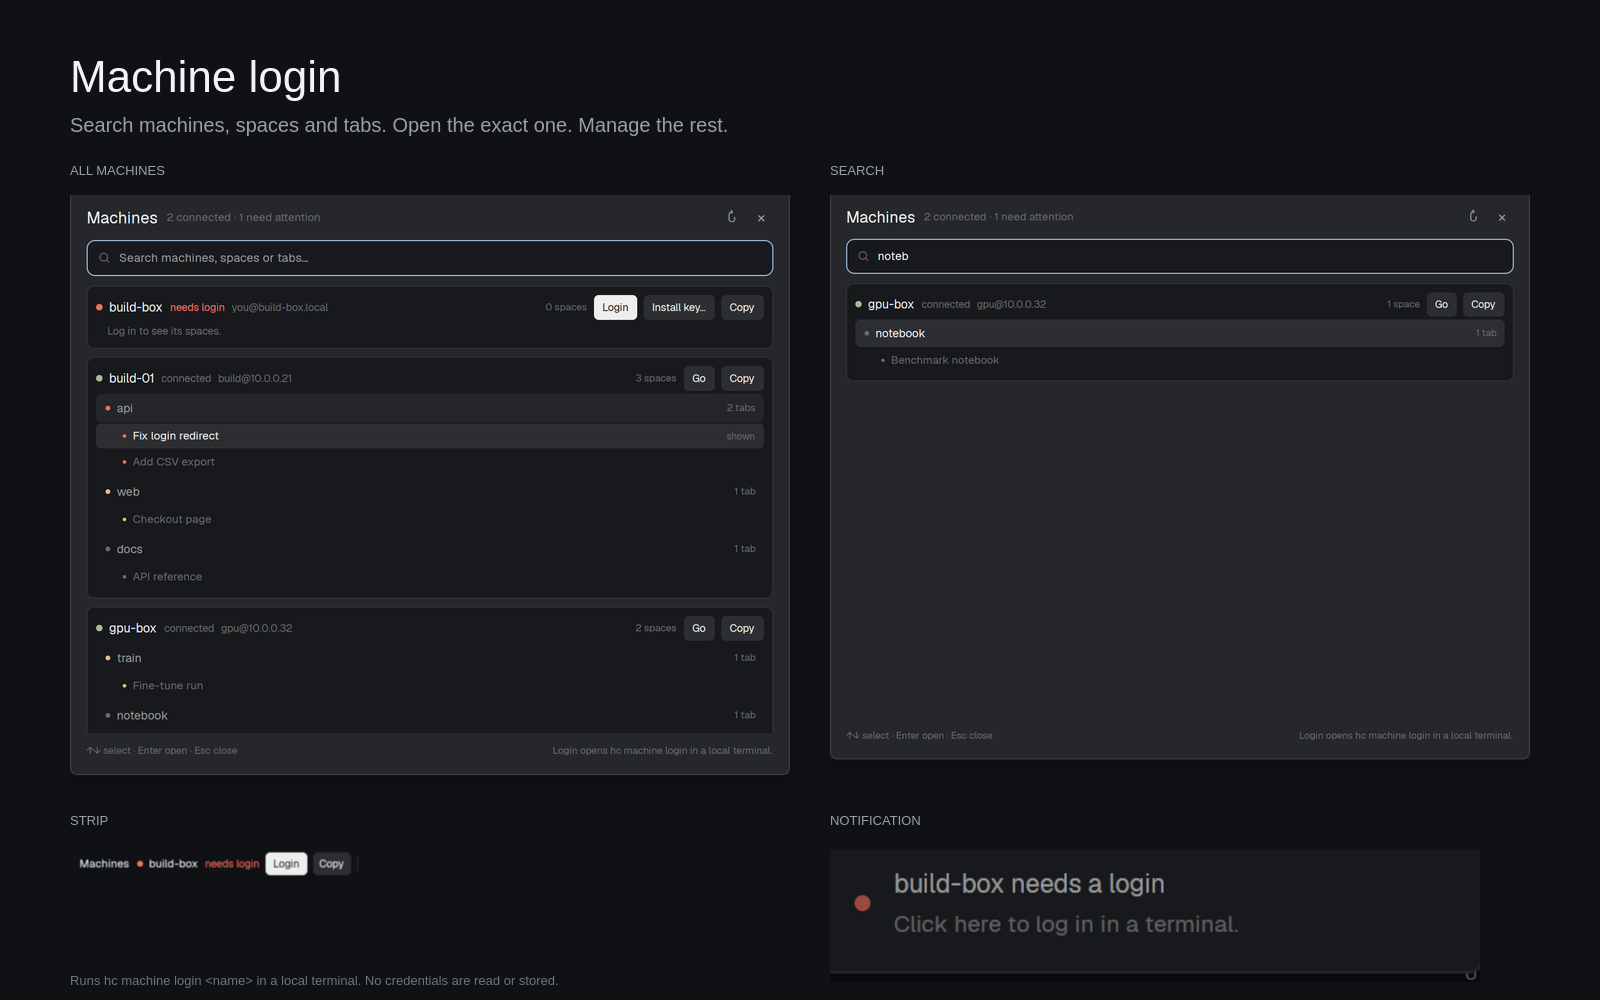
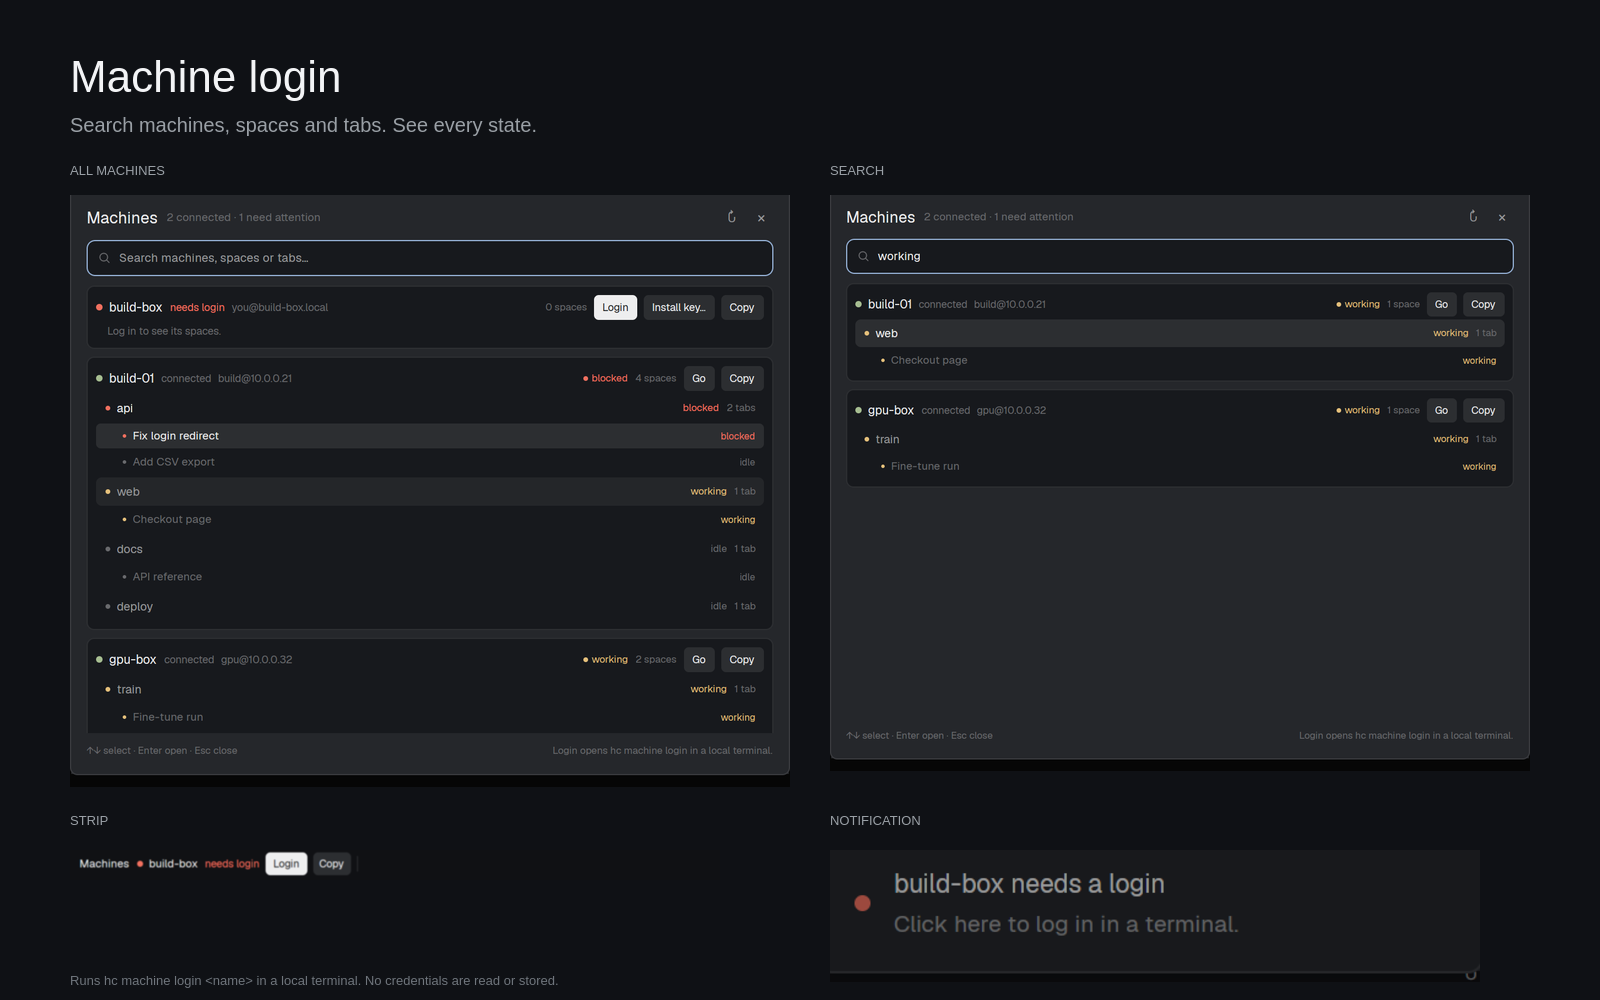
Fix row clicks and show live states in the machine tree

diff --git a/mods/machine-login/main.js b/mods/machine-login/main.js
@@ -6,7 +6,7 @@
 
 import { View, div, svg } from "gpui-kit";
 import { v_flex, h_flex, InputState, Input } from "gpui-base";
-import { hc, notify, run, theme, props, openOverlay, closeOverlay, spaces } from "herdr";
+import { hc, notify, run, theme, props, openOverlay, closeOverlay, spaces, agents } from "herdr";
 
 const shellArg = (value) => /^[a-z0-9_@%+=:,./-]+$/i.test(value) ? value : "'" + value.replace(/'/g, "'\\''") + "'";
 const commandFor = (machine) => `hc machine login ${shellArg(machine)}`;
@@ -122,19 +122,50 @@ export default class MachineLogin extends View {
     return spaces().filter((s) => (s.machine ?? null) === (machine ?? null));
   }
 
+  fuzzy(hay, q) {
+    let at = 0;
+    for (const ch of q) {
+      at = hay.indexOf(ch, at);
+      if (at === -1) return false;
+      at++;
+    }
+    return true;
+  }
+
+  matchesQuery(text, q) {
+    if (!q) return true;
+    const hay = String(text ?? "").toLowerCase();
+    const tokens = q.split(/\s+/).filter(Boolean);
+    return tokens.every((tok) => hay.includes(tok)) || tokens.every((tok) => this.fuzzy(hay, tok));
+  }
+
+  tabsFor(s, tabs) {
+    return tabs.length === 1 && (tabs[0].name ?? "") === s.name ? [] : tabs;
+  }
+
+  statusColor(t, status) {
+    return status ? (t[status] ?? t.dim) : t.dim;
+  }
+
   buildView() {
     const q = this.filter.trim().toLowerCase();
+    const allAgents = agents();
     const ordered = [
       ...this.machines.filter((m) => m.state !== "connected"),
       ...this.machines.filter((m) => m.state === "connected"),
     ];
     const out = [];
     for (const m of ordered) {
-      const machineHit = !q || `${m.name} ${m.target ?? ""} ${m.state ?? ""}`.toLowerCase().includes(q);
+      const machineText = `${m.name} ${m.target ?? ""} ${m.state ?? ""}`;
+      const machineHit = this.matchesQuery(machineText, q);
       const spaces = [];
       for (const s of this.spacesFor(m.name)) {
-        const spaceHit = !q || machineHit || s.name.toLowerCase().includes(q);
-        const tabs = (s.tabs ?? []).filter((tab) => !q || machineHit || spaceHit || (tab.name ?? "").toLowerCase().includes(q));
+        const spaceText = `${machineText} ${s.name} ${s.status ?? ""}`;
+        const spaceHit = this.matchesQuery(spaceText, q);
+        const tabs = (s.tabs ?? []).filter((tab) => {
+          const agentText = allAgents.filter((a) => a.tab === tab.id).map((a) => `${a.app ?? ""} ${a.title ?? ""}`).join(" ");
+          return !q || machineHit || spaceHit || this.matchesQuery(`${spaceText} ${tab.name ?? ""} ${tab.status ?? ""} ${agentText}`, q);
+        });
         if (!spaceHit && !tabs.length) continue;
         spaces.push({ s, tabs });
       }
@@ -149,7 +180,7 @@ export default class MachineLogin extends View {
     for (const group of this.buildView()) {
       for (const { s, tabs } of group.spaces) {
         out.push({ kind: "space", m: group.m, s });
-        for (const tab of tabs) out.push({ kind: "tab", m: group.m, s, tab });
+        for (const tab of this.tabsFor(s, tabs)) out.push({ kind: "tab", m: group.m, s, tab });
       }
     }
     return out;
@@ -161,9 +192,11 @@ export default class MachineLogin extends View {
 
   openItem(row) {
     if (!row) return;
-    if (row.kind === "space") run("space.select", { id: row.s.id });
-    else if (row.kind === "tab") run("tab.select", { id: row.tab.id });
+    const space = row.kind === "space" ? row.s.id : null;
+    const tab = row.kind === "tab" ? row.tab.id : null;
     this.close();
+    if (space) run("space.select", { id: space });
+    else if (tab) run("tab.select", { id: tab });
   }
 
   openSelected() {
@@ -234,18 +267,25 @@ export default class MachineLogin extends View {
           .child("↻")));
   }
 
-  machineHeader(m, t, spaceCount) {
+  machineHeader(m, t, spaces) {
     const state = String(m.state ?? "unknown").replace(/_/g, " ");
     const login = m.state === "needs_login";
     const reason = m.why ? ` (${m.why})` : "";
     const command = commandFor(m.name);
     const first = this.spacesFor(m.name)[0];
+    const spaceCount = spaces.length;
+    const statuses = spaces.map(({ s }) => s.status).filter(Boolean);
+    const top = ["blocked", "working", "done", "idle"].find((s) => statuses.includes(s));
+    const topCount = top ? statuses.filter((s) => s === top).length : 0;
     return h_flex().gap(7).items_center()
       .child(div().size(7).rounded(4).flex_none().bg(login ? t.blocked : m.state === "connected" ? t.ansi2 : t.dim))
       .child(div().text_size(13).font_medium().text_color(t.foreground).child(m.name))
       .child(div().text_size(11).text_color(login ? t.blocked : t.dim).child(state))
       .child(div().flex_1().min_w(0).truncate().text_size(11).text_color(t.dim).tooltip(reason || m.target || "")
         .child(m.target ? `${m.target}${reason}` : "no target"))
+      .when(Boolean(top), (el) => el.child(h_flex().flex_none().gap(4).items_center()
+        .child(div().size(5).rounded(3).bg(t[top] ?? t.dim))
+        .child(div().text_size(10.5).text_color(t[top] ?? t.dim).child(`${top}${topCount > 1 ? ` ${topCount}` : ""}`))))
       .child(div().flex_none().text_size(10.5).text_color(t.dim).child(`${spaceCount} space${spaceCount === 1 ? "" : "s"}`))
       .when(Boolean(first), (el) => el.child(this.button(`machine-login-go-${m.name}`, "Go", false,
         `Show the first space on ${m.name}.`,
@@ -268,37 +308,38 @@ export default class MachineLogin extends View {
     return h_flex().id(`ml-space-${s.id}`).h(30).pl(10).pr(8).gap(7).items_center().rounded(6)
       .when(selected, (el) => el.bg(t.selected))
       .when(!selected, (el) => el.hover((e) => e.bg(t.hover)))
-      .cursor_pointer().on_click((e, cx) => { e.stop_propagation(); this.openItem(row); })
+      .cursor_pointer().on_click((_e, cx) => { cx.stop_propagation(); this.openItem(row); })
       .child(div().size(5).rounded(3).flex_none().bg(status))
-      .child(div().min_w(0).truncate().text_size(12.5).text_color(selected ? t.foreground : t.muted).child(s.name))
+      .child(div().min_w(0).truncate().text_size(12.5).text_color(selected || s.active ? t.foreground : t.muted).child(s.name))
       .child(div().flex_1())
+      .child(div().flex_none().text_size(10.5).text_color(this.statusColor(t, s.status)).child(s.status ?? "—"))
       .child(div().flex_none().text_size(10.5).text_color(t.dim).child(`${count} tab${count === 1 ? "" : "s"}`));
   }
 
   tabRow(row, t, selected) {
     const tab = row.tab;
-    const status = row.s.status ? (t[row.s.status] ?? t.dim) : t.dim;
+    const status = this.statusColor(t, tab.status);
     return h_flex().id(`ml-tab-${tab.id}`).h(26).pl(28).pr(8).gap(7).items_center().rounded(5)
       .when(selected, (el) => el.bg(t.selected))
       .when(!selected, (el) => el.hover((e) => e.bg(t.hover)))
-      .cursor_pointer().on_click((e, cx) => { e.stop_propagation(); this.openItem(row); })
+      .cursor_pointer().on_click((_e, cx) => { cx.stop_propagation(); this.openItem(row); })
       .child(div().size(4).rounded(2).flex_none().bg(status))
-      .child(div().min_w(0).truncate().text_size(12).text_color(selected ? t.foreground : t.dim).child(tab.name ?? "tab"))
+      .child(div().min_w(0).truncate().text_size(12).text_color(selected || tab.active ? t.foreground : t.dim).child(tab.name ?? "tab"))
       .child(div().flex_1())
-      .when(tab.active, (el) => el.child(div().text_size(10).text_color(t.dim).child("shown")));
+      .when(Boolean(tab.status), (el) => el.child(div().text_size(10).text_color(this.statusColor(t, tab.status)).child(tab.status)));
   }
 
   machineBlock(group, t, selKey) {
     const { m, spaces } = group;
     return v_flex().gap(3).p(9).rounded(8).bg(t.surface).border_1().border_color(t.border)
-      .child(this.machineHeader(m, t, spaces.length))
+      .child(this.machineHeader(m, t, spaces))
       .when(spaces.length === 0, (el) => el.child(div().pl(12).text_size(11).text_color(t.dim)
         .child(m.state === "connected" ? "No spaces on this screen." : "Log in to see its spaces.")))
       .children(spaces.map(({ s, tabs }) => {
         const spaceItem = { kind: "space", m, s };
         return v_flex().gap(1)
           .child(this.spaceRow(spaceItem, t, selKey === this.keyOf(spaceItem)))
-          .children(tabs.map((tab) => {
+          .children(this.tabsFor(s, tabs).map((tab) => {
             const tabItem = { kind: "tab", m, s, tab };
             return this.tabRow(tabItem, t, selKey === this.keyOf(tabItem));
           }));

diff --git a/RECIPE.md b/RECIPE.md
@@ -51,13 +51,18 @@ Clicking **Machines** (or pressing `Ctrl+Alt+M`) opens a 760×620 dialog on
   - Header row: a 7px state dot (`blocked` for `needs_login`, `ansi2` for
     connected, `dim` otherwise), name 13px medium in `foreground`, state 11px
     (`blocked` for `needs_login` else `dim`), the target in 11px `dim` (with
-    `why` when `hc` gives one), the space count in 10.5px `dim`, then **Go**
-    (first space), **Login** / **Retry**, **Install key…** and **Copy**.
+    `why` when `hc` gives one), the top agent status and count in the status's
+    color, the space count in 10.5px `dim`, then **Go** (first space),
+    **Login** / **Retry**, **Install key…** and **Copy**. The status summary
+    uses only the spaces currently shown after filtering.
   - Space rows: 30px high, 10px left padding, a 5px status dot, the name 12.5px
-    (`muted`, or `foreground` when active), and `${tabs} tab(s)` in 10.5px
-    `dim`.
+    (`muted`, or `foreground` when active), the status word on the right in
+    `working`/`blocked`/`done`/`idle` color (or `—`), and `${tabs} tab(s)` in
+    10.5px `dim`.
   - Tab rows: 26px high, 28px left padding, a 4px status dot, the tab name
-    12px (`dim`, or `foreground` when selected), and `shown` for the active tab.
+    12px (`dim`, or `foreground` when selected or active), and the tab's own
+    status word on the right. A space whose only tab has the same name as the
+    space hides that tab row; the space row opens it.
   - The highlighted row uses `selected`; the hovered row uses `hover`. Clicking
     a space row calls `space.select`; clicking a tab row calls `tab.select`.
     With no spaces: `No spaces on this screen.` or `Log in to see its spaces.`
@@ -80,10 +85,14 @@ running mod reads the real `hc machine ls`.
   `keys.json` binds `ctrl-alt-m` to `mod.open:machine-login`, so the same dialog
   opens from a key. `mod.json` carries the same 760×620 dialog as its default
   overlay.
-- `buildView()` filters the tree. It lowercases `filter`; a machine matches by
-  name, target or state; a space matches by name; a tab matches by name. A
-  machine match keeps all its spaces and tabs; a space match keeps its tabs; a
-  tab match keeps the parent machine and space. Attention machines come first.
+- `buildView()` filters the tree. It lowercases `filter`; `matchesQuery` first
+  tries every whitespace token as a substring, then as an in-order subsequence.
+  A machine matches by name, target or state; a space adds its name and status;
+  a tab adds its name, status and each agent's `app`/`title` (from `agents()`).
+  A machine match keeps all its spaces and tabs; a space match keeps its tabs;
+  a tab match keeps the parent machine and space. Attention machines come
+  first. `tabsFor(s, tabs)` drops the redundant single tab whose name equals its
+  space's name.
 - `pickable()` flattens the tree to space and tab rows for the keyboard.
   `renderList` starts at the active tab (or active space) and clamps `at`.
   `↑`/`↓` move `at` with wraparound; the root's `on_key_down` stops propagation
@@ -156,7 +165,7 @@ running mod reads the real `hc machine ls`.
 
 - One mod, `mods/machine-login/`:
   - `mod.json`: `{ "place": "bottom", "size": 34, "title": "Machine login",
-    "version": "0.4.0", "overlay": { "kind": "dialog", "width": 760,
+    "version": "0.5.0", "overlay": { "kind": "dialog", "width": 760,
     "height": 620 } }`. The first time Herdr sees the folder it docks the strip
     into the shown layout; the overlay is what `mod.open` uses for the list.
   - `keys.json`: `{ "global": { "ctrl-alt-m": "mod.open:machine-login" } }`.
@@ -181,21 +190,29 @@ running mod reads the real `hc machine ls`.
       at most one notice per 10 minutes for a machine in `needs_login`.
     - `openList` calls `openOverlay` with the same 760×620 dialog.
     - `spacesFor(machine)` filters `spaces()` by `machine`.
+    - `fuzzy(hay, q)` is the in-order subsequence match; `matchesQuery(text, q)`
+      is token-substring or token-fuzzy; `tabsFor(s, tabs)` hides a redundant
+      single same-name tab; `statusColor(t, status)` maps a status to its theme
+      color.
     - `buildView()` returns the attention-first machine tree with filtered
       spaces and tabs; `pickable()` flattens it for the keyboard; `keyOf(row)`
       identifies a space or tab.
-    - `openItem(row)` runs `space.select` or `tab.select`, then `close`.
+    - `openItem(row)` closes first, then runs `space.select` or `tab.select`.
       `openSelected` uses the highlighted `at`; `close` tries the overlay id,
       falls back to `closeOverlay()`, and swallows errors.
     - `button(id, label, primary, tooltip, onClick)` is the shared 26px action
-      button; it stops propagation so a click does not also close/select.
+      button; it stops propagation with `cx.stop_propagation()` so a click does
+      not also close/select.
     - `row` draws the strip's dot, name, state, Login/Retry, Copy and divider.
     - `renderStrip` chooses checking / error / all-connected / attention, makes
       **Machines** open the list, and always draws the refresh button.
-    - `machineHeader` draws the machine dot/name/state/target/space count and
-      the Go / Login / Retry / Install key / Copy buttons.
-    - `spaceRow` and `tabRow` draw the selectable tree rows and their click
-      handlers. `machineBlock` composes a machine with its rows.
+    - `machineHeader` draws the machine dot/name/state/target, the top status
+      and count from the filtered spaces, the space count, and the Go / Login /
+      Retry / Install key / Copy buttons.
+    - `spaceRow` and `tabRow` draw the selectable tree rows, their status words
+      and their click handlers (which stop propagation through `cx`). A tab row
+      uses `tab.status`; a space row uses `s.status`.
+    - `machineBlock` composes a machine with its filtered space and tab rows.
     - `renderList` draws the header, the search field, the scrollable tree and
       the footer; it wires `↑`/`↓`/Esc on the root and starts at the active tab.
     - `render(cx)` returns `renderList` when `this.overlay` is set, otherwise
@@ -278,10 +295,16 @@ running mod reads the real `hc machine ls`.
   their space and tab rows; no **Retry** on connected cards.
 - Typing a space or tab name (for example `slack`) filters the tree to the
   matching spaces/tabs; **↑/↓** moves the highlight and **Enter** closes the
-  dialog and opens the highlighted space or tab. With no match the list says
-  `No machine, space or tab matches.`
+  dialog and opens the highlighted space or tab. Typing `working`, `blocked`,
+  `done` or `idle` filters by status. Multi-word and fuzzy queries match. With
+  no match the list says `No machine, space or tab matches.`
 - Clicking a space row selects that space; clicking a tab row selects that exact
   tab. Both close the dialog. Clicking **Go** selects the machine's first space.
+- Space and tab rows show their live status word on the right, with the status
+  color; the machine header shows its top status and count. Filtering to
+  `working` changes the machine header's summary to the visible working spaces.
+- A space with one tab whose name equals the space name shows no tab row; the
+  space row opens that tab.
 - Clicking **Login** creates a local space named `build-box login` with a
   `login` tab, and the terminal shows the `(user@host) Password:` prompt (or the
   real SSH error). Closing the space leaves the saved machine untouched.

diff --git a/README.md b/README.md
@@ -29,12 +29,14 @@ that can ask.
 - Click **Machines** (or press `Ctrl+Alt+M`) to open the machine tree: every
   saved machine, its target, state, **Login / Retry**, **Install key…**,
   **Copy**, **Go**, and its spaces and tabs. Attention comes first.
-- Search matches machine names, targets, states, space names and tab names.
-  Use **↑/↓** to move the highlight and **Enter** to open the selected space or
-  tab; clicking a space or tab opens it too. **Esc** closes the dialog.
-- Each tab row shows whether it is the shown tab; a space row shows its tab
-  count and the agent status dot. Clicking a space opens it; clicking a tab
-  opens that exact tab.
+- Search matches machine names, targets, states, space/tab names, agent statuses
+  and agent titles. Multi-word and fuzzy queries work. Use **↑/↓** to move the
+  highlight and **Enter** to open the selected space or tab; clicking a space
+  or tab opens it too. **Esc** closes the dialog.
+- Space and tab rows show their live agent status (`working`, `blocked`, `done`,
+  `idle`) on the right, next to the tab count. The machine header shows its
+  highest status and how many spaces have it. A single tab with the same name
+  as its space is not repeated; the space row already opens it.
 - **Install key…** is the permanent fix: it runs `ssh-copy-id` for your first
   `~/.ssh/id_ed25519.pub` or `~/.ssh/id_rsa.pub`, then logs in once. Future
   reconnects use the key and no longer prompt.
@@ -125,9 +127,9 @@ button is not useful there.
   different key, run `ssh-copy-id` once in your own terminal.
 - The dialog's **Go** button selects the first space on that machine. It is
   hidden if that machine has no space on the current screen. The tree lists
-  spaces and tabs under each connected machine; search matches machine names,
-  targets, states, space names and tab names. `↑/↓` and Enter work while the
-  search field has focus.
+  spaces and tabs under each connected machine; search matches names, targets,
+  states, statuses and agent titles. `↑/↓` and Enter work while the search field
+  has focus.
 - The mod quotes machine names for the `sh -c` wrapper; names from `hc` are
   already constrained, but the quoting keeps a renamed machine safe.
 - `Ctrl+Alt+M` is the default list shortcut. Change or remove it in
